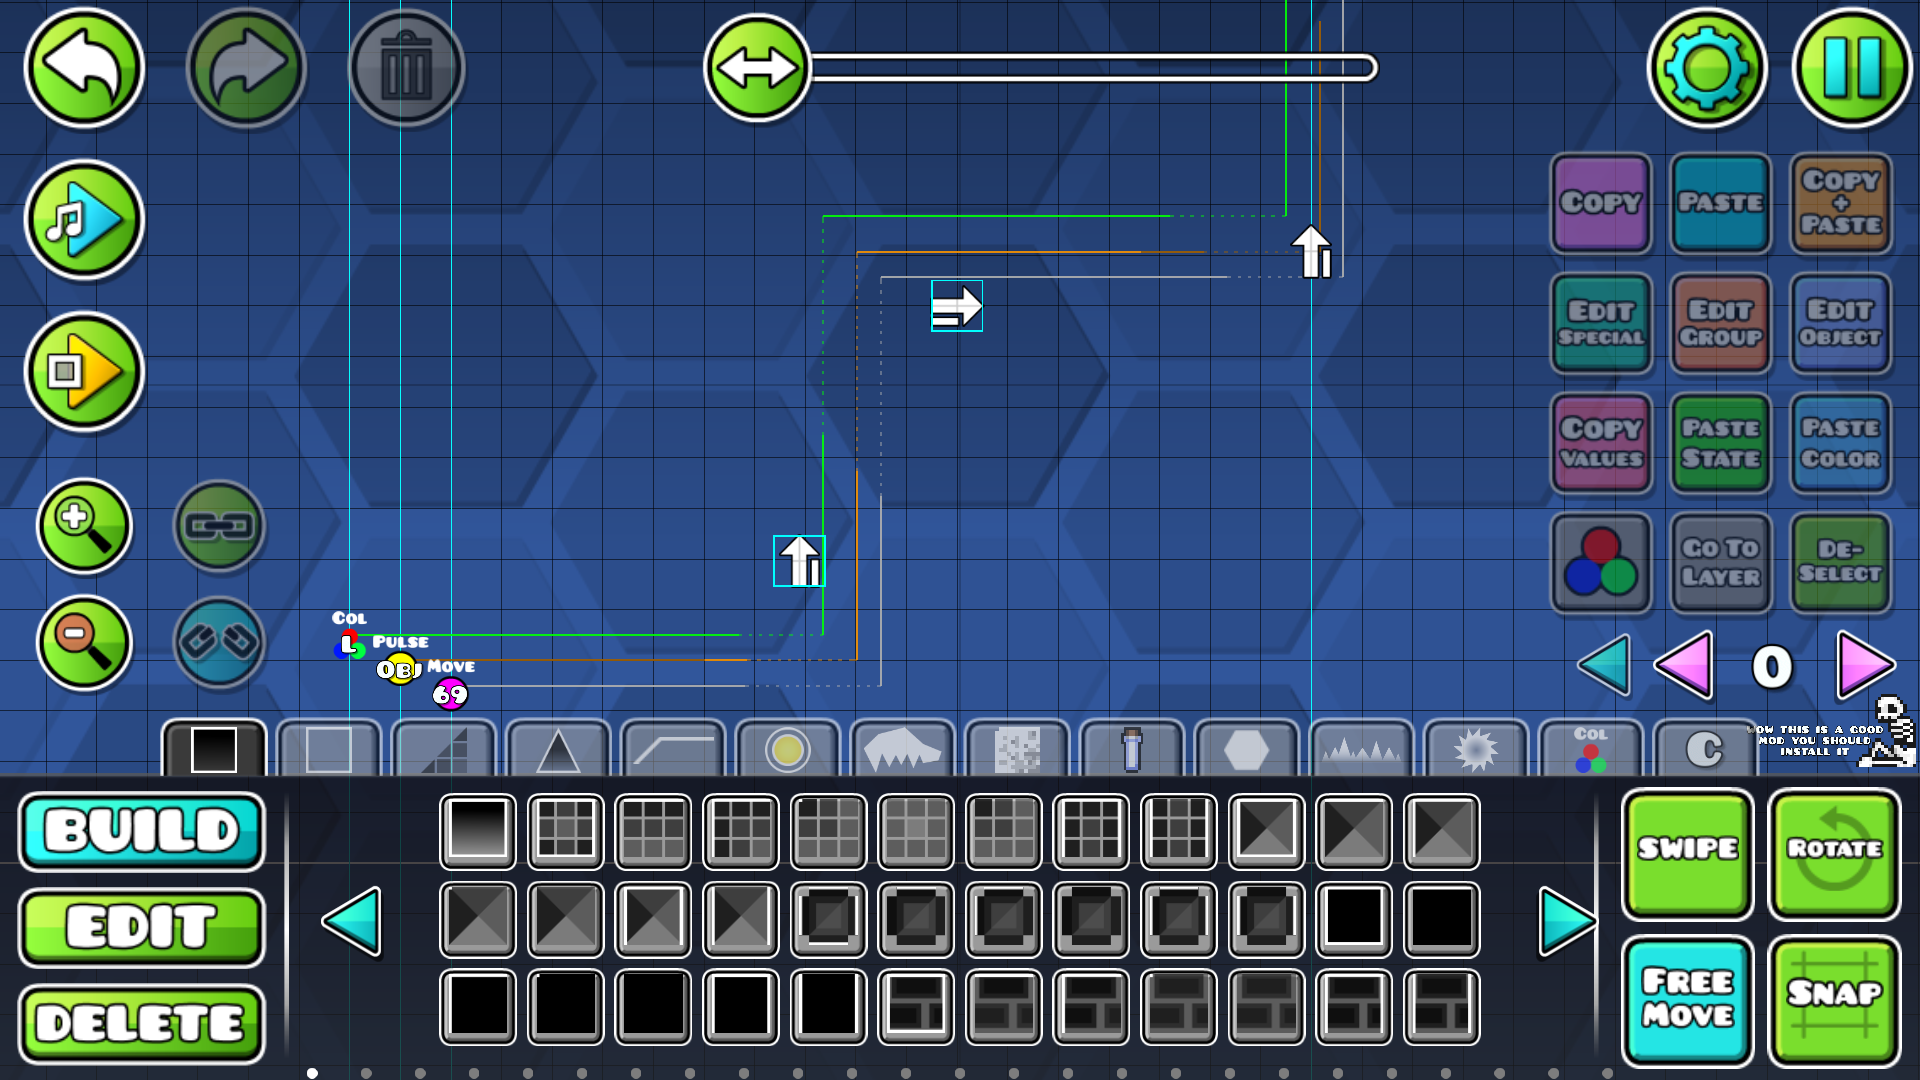
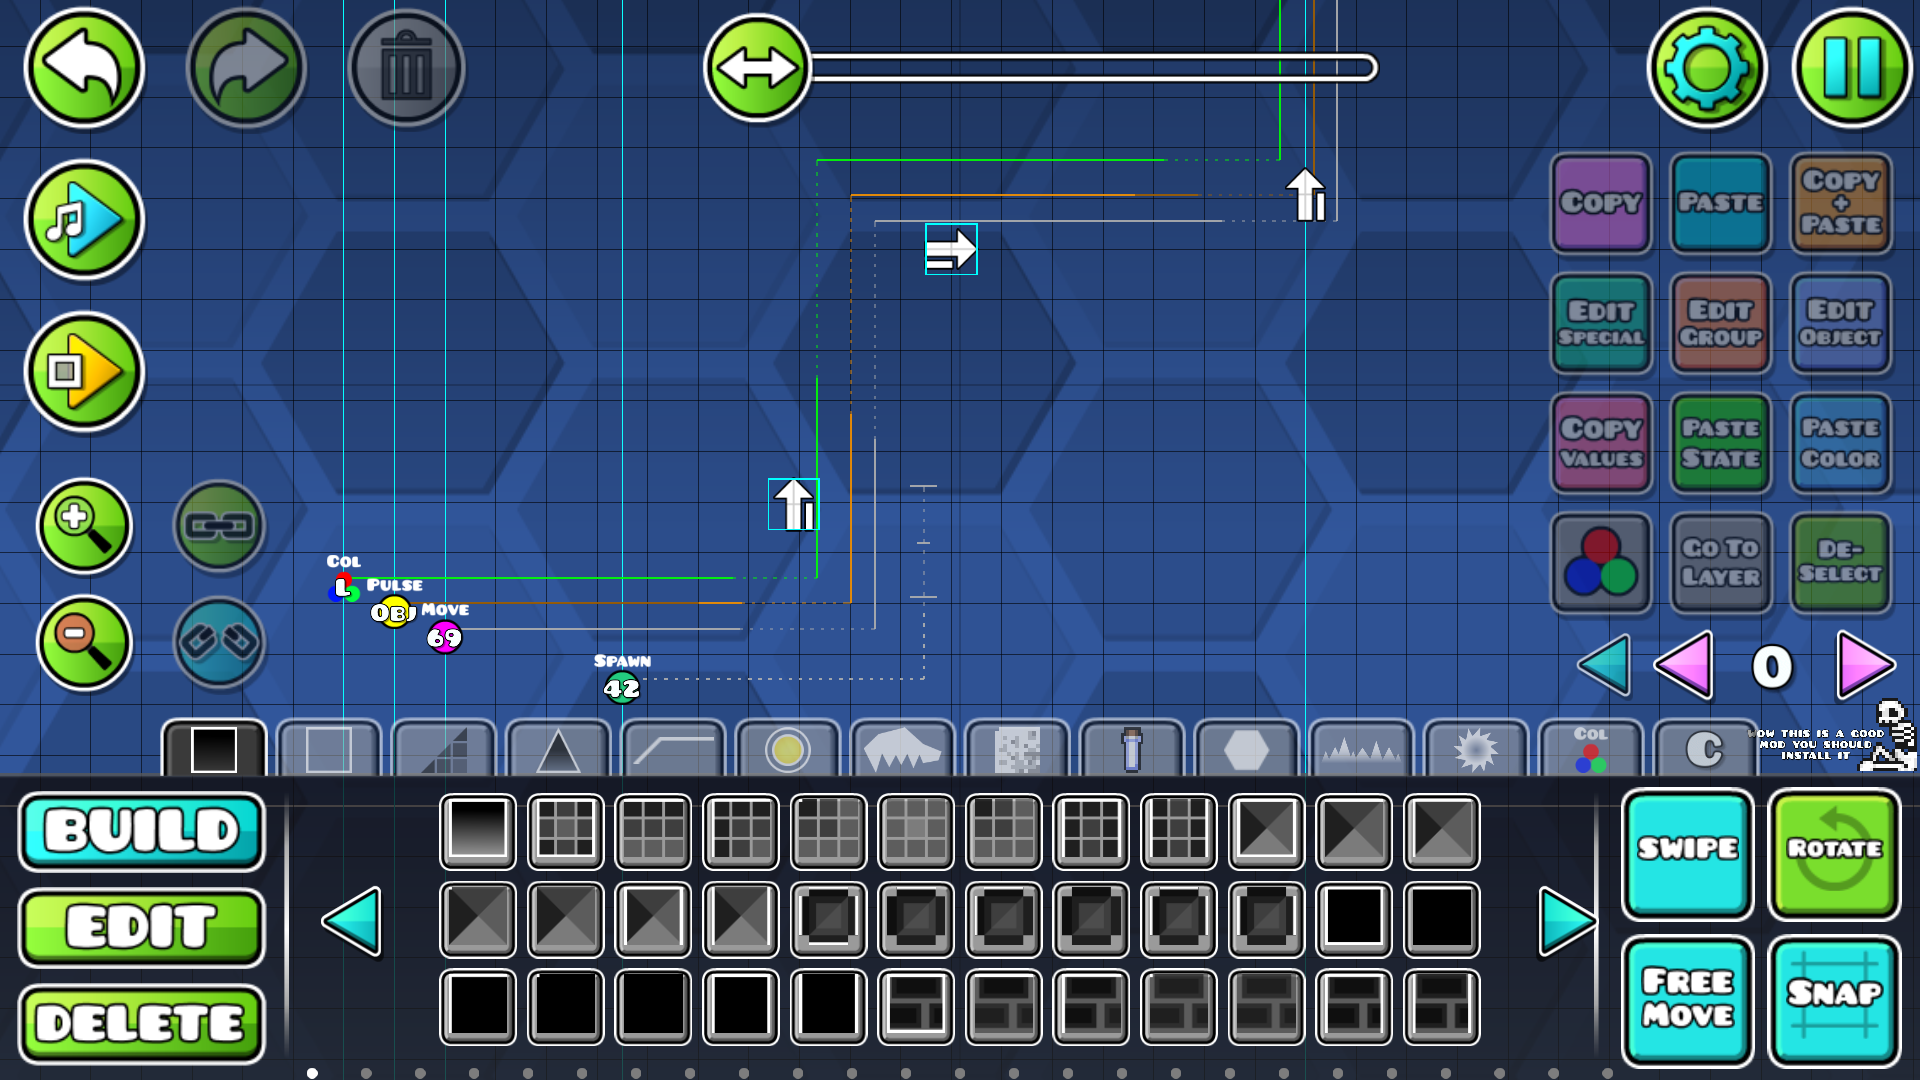
spawn trigger stuffs (v1.3.0)

diff --git a/src/DrawGridLayer.cpp b/src/DrawGridLayer.cpp
@@ -1,4 +1,5 @@
 #include "DrawGridLayer.hpp"
+#include "Geode/utils/cocos.hpp"
 
 HookedDrawGridLayer::Fields::Fields()
     : m_seenRotatedGameplayThisObject(false)
@@ -10,6 +11,7 @@ HookedDrawGridLayer::Fields::Fields()
     , m_cullOffscreen(geode::Mod::get()->getSettingValue<bool>("cull-offscreen"))
     , m_cullOtherLayers(geode::Mod::get()->getSettingValue<bool>("cull-other-layers"))
     , m_limit(geode::Mod::get()->getSettingValue<int64_t>("draw-limit"))
+    , m_ignoreSpawnTriggered(geode::Mod::get()->getSettingValue<bool>("ignore-spawn-triggered"))
     , m_stripOldArrowTriggers(geode::Mod::get()->getSettingValue<bool>("strip-old-arrow-triggers"))
     , m_dontOffsetSecondaryAxis(geode::Mod::get()->getSettingValue<bool>("dont-offset-secondary-axis"))
     , m_ignoreJumpedPoints(geode::Mod::get()->getSettingValue<bool>("ignore-jumped-points"))
@@ -25,17 +27,18 @@ void HookedDrawGridLayer::draw() {
 
     if (m_editorLayer->m_playbackMode == PlaybackMode::Playing || !m_editorLayer->m_showDurationLines) return;
     if (!m_editorLayer->m_durationObjects) return;
+
+    auto durationObjectsCopy = m_editorLayer->m_durationObjects->shallowCopy();
+    durationObjectsCopy->addObjectsFromArray(m_editorLayer->m_spawnTriggers);
     
-    auto durationObjectCount = m_editorLayer->m_durationObjects->count();
-    if (durationObjectCount == 0) return;
+    auto durationObjectsCount = durationObjectsCopy->count();
+    if (durationObjectsCount == 0) return;
     
     glLineWidth(2.f);
     cocos2d::ccGLBlendFunc(GL_SRC_ALPHA, GL_ONE_MINUS_SRC_ALPHA);
 
-    // TODO: perhaps make this more efficient? m_durationObjects should be
-    // already sorted by x position and channel or something like that
     unsigned int count = 0;
-    for (auto obj : geode::cocos::CCArrayExt<EffectGameObject*>(m_editorLayer->m_durationObjects)) {
+    for (auto obj : geode::cocos::CCArrayExt<EffectGameObject*>(durationObjectsCopy)) {
         if (!obj) continue;
         if (!obj->getParent() && fields->m_cullOffscreen) continue;
         if (
@@ -73,7 +76,7 @@ void HookedDrawGridLayer::drawLinesForObject(EffectGameObject* obj) {
     if (
         // 0121 - hide invisible checkbox in editor
         (GameManager::get()->getGameVariable("0121") && (obj->m_isHide || obj->m_isGroupDisabled) && !obj->m_isSelected)
-        || obj->m_isSpawnTriggered
+        || (obj->m_isSpawnTriggered && fields->m_ignoreSpawnTriggered)
     ) return;
 
     auto durations = durationForObject(obj);
@@ -82,6 +85,8 @@ void HookedDrawGridLayer::drawLinesForObject(EffectGameObject* obj) {
 
     // remove all speed objects that are before this object
     // this could be buggy with rotated gameplay
+    // TODO: perhaps make this more efficient? should be already sorted by x
+    // position and channel or something like that
     if (fields->m_stripOldArrowTriggers) {
         auto speedObjectsToRemove = cocos2d::CCArray::create();
     
@@ -98,9 +103,11 @@ void HookedDrawGridLayer::drawLinesForObject(EffectGameObject* obj) {
 
     float startTime = LevelTools::timeForPos(
         obj->getRealPosition(), speedObjectsCopy,
-        (int)m_editorLayer->m_levelSettings->m_startSpeed, obj->m_ordValue,
-        obj->m_channelValue, false,
-        m_editorLayer->m_levelSettings->m_platformerMode, true, false, 0
+        (int)m_editorLayer->m_levelSettings->m_startSpeed,
+        obj->m_ordValue, obj->m_channelValue,
+        false,
+        m_editorLayer->m_levelSettings->m_platformerMode,
+        true, false, 69
     );
 
     // fade in line
@@ -140,8 +147,98 @@ void HookedDrawGridLayer::drawLinesForObject(EffectGameObject* obj) {
         }
     }
 
-    // and draw them all
-    drawLines(obj->getRealPosition(), points);
+    startTime += durations.m_fadeOutDuration;
+
+    bool isSpawnTrigger = obj->m_objectID == 1268;
+
+    // draw small vertical line at the end
+    if (isSpawnTrigger) {
+        auto cast = static_cast<SpawnTriggerGameObject*>(obj);
+        
+        auto col = colorForObject(obj, LinePart::Base);
+        cocos2d::ccDrawColor4B(col.r, col.g, col.b, col.a);
+
+        PosForTime end;
+        if (points.size() != 0) {
+            end = points.back().m_pos;
+        } else {
+            end = {
+                .m_pos = obj->getRealPosition(),
+                .m_isRotated = false
+            };
+        }
+
+        if (cast->m_delayRange < 0.01f) {
+            if (end.m_isRotated) {
+                cocos2d::ccDrawLine(
+                    { end.m_pos.x + 4, end.m_pos.y },
+                    { end.m_pos.x - 4, end.m_pos.y }
+                );
+            } else {
+                cocos2d::ccDrawLine(
+                    { end.m_pos.x, end.m_pos.y + 4 },
+                    { end.m_pos.x, end.m_pos.y - 4 }
+                );
+            }
+        } else {
+            auto left = posForTime(startTime - cast->m_delayRange, obj, speedObjectsCopy);
+            auto right = posForTime(startTime + cast->m_delayRange, obj, speedObjectsCopy);
+
+            // draw the lines for left, right and end, making sure they get
+            // rotated if needed
+            if (left.m_isRotated) {
+                cocos2d::ccDrawLine(
+                    { left.m_pos.x + 8, left.m_pos.y },
+                    { left.m_pos.x - 8, left.m_pos.y }
+                );
+            } else {
+                cocos2d::ccDrawLine(
+                    { left.m_pos.x, left.m_pos.y + 8 },
+                    { left.m_pos.x, left.m_pos.y - 8 }
+                );
+            }
+
+            if (end.m_isRotated) {
+                cocos2d::ccDrawLine(
+                    { end.m_pos.x + 4, end.m_pos.y },
+                    { end.m_pos.x - 4, end.m_pos.y }
+                );
+            } else {
+                cocos2d::ccDrawLine(
+                    { end.m_pos.x, end.m_pos.y + 4 },
+                    { end.m_pos.x, end.m_pos.y - 4 }
+                );
+            }
+
+            if (right.m_isRotated) {
+                cocos2d::ccDrawLine(
+                    { right.m_pos.x + 8, right.m_pos.y },
+                    { right.m_pos.x - 8, right.m_pos.y }
+                );    
+            } else {
+                cocos2d::ccDrawLine(
+                    { right.m_pos.x, right.m_pos.y + 8 },
+                    { right.m_pos.x, right.m_pos.y - 8 }
+                );    
+            }
+
+            // draw dashed lines up to right
+            points.push_back({
+                .m_col = colorForObject(obj, LinePart::Base),
+                .m_pos = right
+            });
+
+            // make all points after left half opacity
+            for (auto& point : points) {
+                if (point.m_pos.m_time > startTime - cast->m_delayRange) {
+                    point.m_col.a /= 2;
+                }
+            }
+        }
+    }
+
+    // if this is a spawn trigger, force dashed (third param)
+    drawLines(obj->getRealPosition(), points, isSpawnTrigger);
 
     fields->m_seenRotatedGameplayThisObject = false;
     fields->m_lastPointWasRotatedThisObject = false;
@@ -155,18 +252,27 @@ ObjectDuration HookedDrawGridLayer::durationForObject(EffectGameObject* obj) {
 
     ret.m_baseDuration = obj->m_duration;
 
-    if (id == 1006) { // pulse trigger
-        ret.m_baseDuration = obj->m_holdDuration;
-        ret.m_fadeInDuration = obj->m_fadeInDuration;
-        ret.m_fadeOutDuration = obj->m_fadeOutDuration;
-    } else if (id == 3602) { // sfx trigger
-        auto cast = static_cast<SFXTriggerGameObject*>(obj);
-        ret.m_baseDuration = cast->m_soundDuration;
-        ret.m_fadeInDuration = cast->m_fadeIn / 1000.f;
-        ret.m_fadeOutDuration = cast->m_fadeOut / 1000.f;
-    } else {
-        ret.m_fadeInDuration = 0.f;
-        ret.m_fadeOutDuration = 0.f;
+    switch(id) {
+        case 1006: { // pulse
+            ret.m_baseDuration = obj->m_holdDuration;
+            ret.m_fadeInDuration = obj->m_fadeInDuration;
+            ret.m_fadeOutDuration = obj->m_fadeOutDuration;
+            break;
+        }
+        
+        case 3602: { // sfx
+            auto cast = static_cast<SFXTriggerGameObject*>(obj);
+            ret.m_baseDuration = cast->m_soundDuration;
+            ret.m_fadeInDuration = cast->m_fadeIn / 1000.f;
+            ret.m_fadeOutDuration = cast->m_fadeOut / 1000.f;
+            break;
+        }
+
+        case 1268: // spawn
+            ret.m_baseDuration = static_cast<SpawnTriggerGameObject*>(obj)->m_spawnDelay;
+        default:
+            ret.m_fadeInDuration = 0.f;
+            ret.m_fadeOutDuration = 0.f;
     }
 
     return ret;
@@ -188,7 +294,7 @@ PosForTime HookedDrawGridLayer::posForTime(float time, EffectGameObject* obj, co
         false,
         true,
         m_editorLayer->m_gameState.m_rotateChannel,
-        1 // unused
+        69 // unused
     );
 
     /*
@@ -214,8 +320,6 @@ PosForTime HookedDrawGridLayer::posForTime(float time, EffectGameObject* obj, co
      * tl;dr - dont add y if gameplay ends on unrotated (2.2) UNLESS we have not
      * seen rotated gameplay (2.1), in which case ALWAYS add y
      * if we're rotated, never add y, never needed!
-     *
-     * m_seenRotatedGameplay gets reset at the end of drawLinesForObject!
      */
 
     if (!LevelTools::getLastGameplayRotated() && !fields->m_seenRotatedGameplayThisObject) {
@@ -286,6 +390,8 @@ PosForTime HookedDrawGridLayer::posForTime(float time, EffectGameObject* obj, co
     fields->m_lastPointThisObject = point;
 
     ret.m_pos = point;
+    ret.m_time = time;
+    ret.m_isRotated = LevelTools::getLastGameplayRotated();
 
     return ret;
 }
@@ -379,7 +485,7 @@ cocos2d::ccColor4B HookedDrawGridLayer::tintColor(const cocos2d::ccColor4B& col,
     return { static_cast<GLubyte>(r*255), static_cast<GLubyte>(g*255), static_cast<GLubyte>(b*255), col.a };
 }
 
-void HookedDrawGridLayer::drawLines(const cocos2d::CCPoint& start, const std::vector<LinePoint>& segments) {
+void HookedDrawGridLayer::drawLines(const cocos2d::CCPoint& start, const std::vector<LinePoint>& segments, bool forceDashed) {
     // could most likely be improved by using ccDrawLines for segments next to
     // each other that have the same colour
 
@@ -395,11 +501,12 @@ void HookedDrawGridLayer::drawLines(const cocos2d::CCPoint& start, const std::ve
         
         auto col = allSegments[i + 1].m_col;
 
-        if (hasJumped) {
-            cocos2d::ccDrawColor4B(col.r, col.g, col.b, col.a * .5f);
+        cocos2d::ccDrawColor4B(col.r, col.g, col.b, col.a);
+        if (hasJumped || forceDashed) {
+            // if this isnt forced, turn down opacity
+            if (!forceDashed) cocos2d::ccDrawColor4B(col.r, col.g, col.b, col.a / 2);
             drawDashedLine(from.m_pos, to.m_pos);
         } else {
-            cocos2d::ccDrawColor4B(col.r, col.g, col.b, col.a);
             cocos2d::ccDrawLine(from.m_pos, to.m_pos);
         }
     }

diff --git a/src/DrawGridLayer.hpp b/src/DrawGridLayer.hpp
@@ -4,6 +4,8 @@
 struct PosForTime {
     cocos2d::CCPoint m_pos;
     bool m_hasJumped;
+    bool m_isRotated;
+    float m_time;
 };
 
 struct LinePoint {
@@ -34,6 +36,7 @@ class $modify(HookedDrawGridLayer, DrawGridLayer) {
         bool m_cullOffscreen;
         bool m_cullOtherLayers;
         unsigned int m_limit;
+        bool m_ignoreSpawnTriggered;
         bool m_stripOldArrowTriggers;
         bool m_dontOffsetSecondaryAxis;
         bool m_ignoreJumpedPoints;
@@ -45,7 +48,7 @@ class $modify(HookedDrawGridLayer, DrawGridLayer) {
     void draw();
 
     void drawLinesForObject(EffectGameObject* obj);
-    void drawLines(const cocos2d::CCPoint& start, const std::vector<LinePoint>& segments);
+    void drawLines(const cocos2d::CCPoint& start, const std::vector<LinePoint>& segments, bool forceDashed);
     void drawDashedLine(const cocos2d::CCPoint& start, const cocos2d::CCPoint& end);
 
     ObjectDuration durationForObject(EffectGameObject* obj);

diff --git a/about.md b/about.md
@@ -3,8 +3,9 @@ by [undefined0](user:13351341)
 
 ---
 
-This mod simply allows duration lines coming out of triggers to bend to the final point if any arrow triggers mean they should, instead of always being straight. It also shows fade in and fade out durations on triggers that support it, as well as the color of any color or pulse triggers!
+This mod allows duration lines coming out of triggers to bend to the final point if any arrow triggers mean they should, instead of always being straight. \
+This mod also comes with extra improvements to duration lines, such as showing fade in and fade out durations on triggers that support it, the color of any color or pulse triggers and the variation on spawn triggers!
 
 This mod also has performance settings! If you experience lag in the editor when lots of triggers are onscreen, you can turn down the limit of lines drawn (by default, GD uses 400 lines as a limit), or the precision of the lines. On the other hand, if you have a good computer, you can turn off culling, to see duration lines of triggers that are offscreen.
 
-**Note**: This mod will <cr>not</c> fix any pre-existing issues that duration lines have - it just tries its best with RobTop's existing code to make the lines more accurate with arrow triggers. However, this mod does attempt to fix triggers placed after arrow triggers!
+**Note**: This mod will <cr>not</c> fix any pre-existing issues that duration lines have - it just tries its best with RobTop's existing code to make the lines more accurate with arrow triggers, but it will attempt to fix triggers placed after arrow triggers! Most notable issues come with triggers which are placed within half a block before an arrow trigger.

diff --git a/changelog.md b/changelog.md
@@ -1,4 +1,7 @@
 # Bendy Duration Lines
+## v1.3.0
+- Add option to draw duration lines of spawn triggered triggers
+- Add extended support for spawn triggers to show duration line as well as variation
 ## v1.2.0
 - Add option to skip drawing duration lines not on the current layer
 - Make duration lines not on the current layer transparent
@@ -6,8 +9,8 @@
 - Make triggers with no special duration line color more consistent
 - Remove unnecessary checks
 ## v1.1.0
-- Fix RobTop's code by "hiding" arrow triggers placed before the duration line
-- Indicate "jumped" points with a dashed line instead of keeping it solid
+- Fix RobTop's code by ignoring arrow triggers placed before the duration line
+- Indicate jumped points with a dashed line instead of keeping it solid
 - Store more information in debug points
 - Fix grammatical issues
 - Adjust defaults and ranges in mod settings
